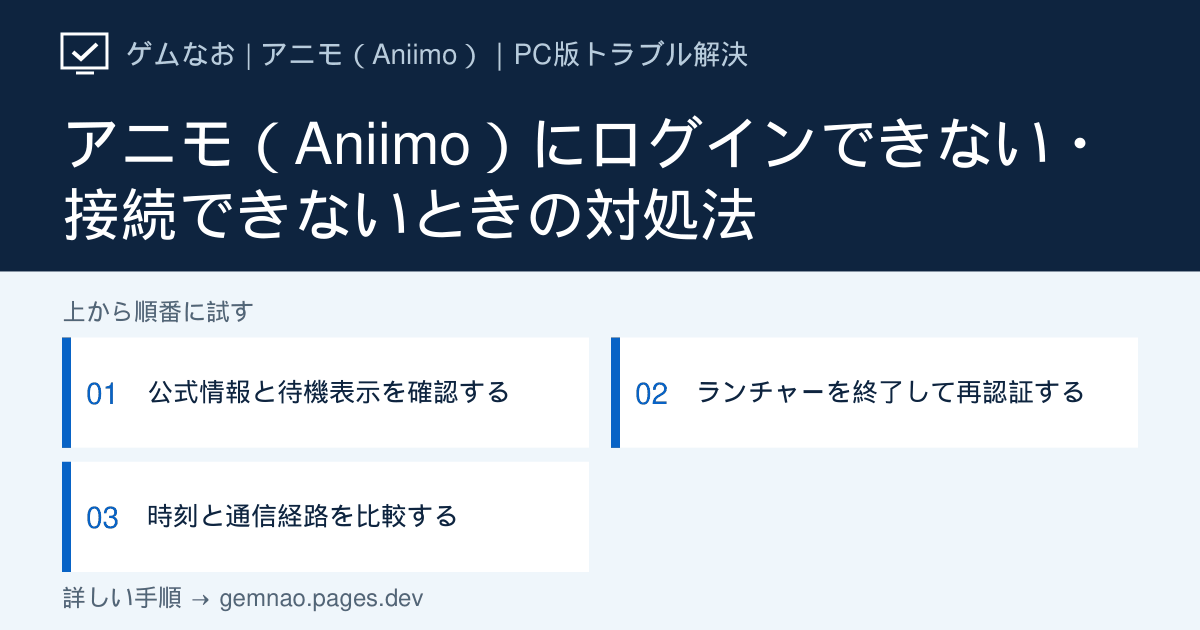
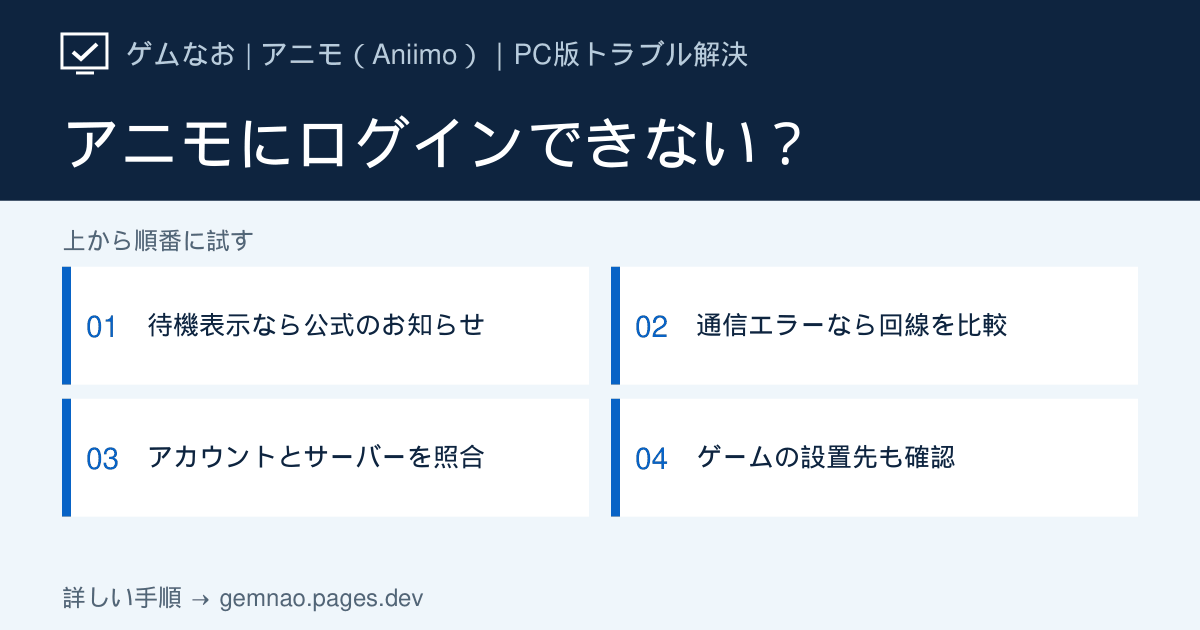
Rewrite Aniimo login troubleshooting by error and platform

diff --git a/lib/aniimo-articles.ts b/lib/aniimo-articles.ts
@@ -18,6 +18,10 @@ const steamVerifyGuide = {
   label: 'Steam公式サポート：ゲームファイルの整合性を確認する方法',
   url: 'https://help.steampowered.com/en/faqs/view/0C48-FCBD-DA71-93EB',
 };
+const steamMoveGuide = {
+  label: 'Steam公式サポート：Steamライブラリ間でゲームを移動する方法',
+  url: 'https://help.steampowered.com/en/faqs/view/71AB-698D-57EB-178C',
+};
 const windowsEventViewer = {
   label: 'Microsoft公式：イベント ビューアーで日時・イベントを確認する',
   url: 'https://support.microsoft.com/ja-jp/windows/experience/system-configuration-tools-in-windows',
@@ -464,85 +468,199 @@ export const aniimoArticles: GameArticle[] = [
     gameSlug: 'aniimo',
     slug: 'login-error',
     category: 'server',
-    title: 'アニモ（Aniimo）にログインできない・接続できないときの対処法',
+    title:
+      'アニモ（Aniimo）にログインできない・接続エラーが出るときの対処法【PC版】',
     shortTitle: 'ログイン・接続エラー',
     symptom:
-      'アカウントへ入れない、接続できない、ログイン待ちから進まない場合の切り分け手順です。',
+      'ログイン待ちが続く、ランチャーに「ネットワークエラー」が出る、アカウントで入れない。止まった画面と表示文を確認し、下の表から自分の症状を選んでください。',
     conclusion:
-      '公式のお知らせでメンテナンスを確認し、再認証、Windowsの時刻、別回線の比較まで行って、サーバー側とPC側を切り分けます。',
+      '待機人数・時間が出るなら公式のお知らせと待機画面を確認します。ランチャーのネットワークエラーなら通信経路、アカウントの問題ならSteam版・公式ランチャー版のログイン方法とサーバーを確認。ログイン失敗が続く場合は、公式FAQが挙げるインストール先の文字種も調べます。',
     description:
-      'サービス開始直後の混雑・メンテナンスと、認証情報や通信環境の問題は対処が異なります。待機表示がある場合は、連打や短時間の再接続を避けてください。',
-    checkedAt,
+      '同じ「ログインできない」でも、待機列・回線・アカウント・ゲームの設置場所では確認する画面が異なります。表示されたエラー文を先に控え、当てはまる手順だけ進めてください。',
+    checkedAt: '2026-09-27',
     status: 'verified',
-    targetVersion,
+    targetVersion: 'Windows PC版（公式ランチャー・Steam）／2026年9月27日確認',
+    quickFacts: [
+      {
+        label: '待機人数・時間が出る',
+        value: '待機画面と公式のお知らせを確認。ログインの連打を控える',
+      },
+      {
+        label: 'ネットワークエラー／タイムアウト',
+        value: '公式FAQの案内に沿って接続・DNS・プロキシを確認し、別回線と比較',
+      },
+      {
+        label: '入れたのにキャラがいない',
+        value:
+          '使ったアカウントと選択中のサーバーを照合。過去のテストデータは別扱い',
+      },
+      {
+        label: 'インストール先に日本語',
+        value:
+          '公式FAQは半角英数字のみのフォルダを推奨。Windowsのユーザー名は変更しない',
+      },
+    ],
     causes: [
-      'メンテナンス、障害、ログイン集中',
-      'ランチャーまたはSteamの認証情報が更新されていない',
-      'Windowsの時刻ずれやVPN・プロキシの影響',
-      '家庭内ネットワークまたはプロバイダー経路の一時的な問題',
+      '待機列・メンテナンスなど運営側の状況',
+      'ランチャーの通信、DNS・プロキシ、または利用中の回線',
+      'Steamと公式ランチャーで使ったログイン方法・連携状態、選択したサーバーの違い',
+      '公式FAQが注意を促す、半角英数字以外を含むインストール先',
     ],
     symptoms: [
       { label: 'ログイン待ちから進まない', target: 'check-login-status' },
-      { label: 'アカウントへ入れない', target: 'reauthenticate' },
-      { label: '接続できない', target: 'compare-network' },
+      { label: 'ネットワークエラー・タイムアウト', target: 'compare-network' },
+      { label: 'アカウントへ入れない', target: 'check-account' },
+      { label: '入れたがキャラがいない', target: 'check-account' },
+      {
+        label: '日本語のフォルダにインストールした',
+        target: 'check-install-path',
+      },
+    ],
+    diagnosis: [
+      {
+        symptom: '待機人数・待機時間が画面に出ている',
+        cause: 'ログイン待ち。先に運営のお知らせと画面の案内を確認',
+        stepId: 'check-login-status',
+      },
+      {
+        symptom:
+          '公式ランチャーに「ネットワークエラー」「ネットワークタイムアウト」と出る',
+        cause: '公式FAQが案内するインターネット接続・DNS・プロキシを確認',
+        stepId: 'compare-network',
+      },
+      {
+        symptom: 'Steam版のログイン・アカウント連携画面で止まる',
+        cause: 'Steamから起動したかとAniimo Passの連携状態を確認',
+        stepId: 'check-account',
+      },
+      {
+        symptom: '公式ランチャー版でアカウントへ入れない／認証で止まる',
+        cause:
+          'ログイン方法とエラー文を確認。通信エラーが出る場合は先に回線を比較',
+        stepId: 'check-account',
+      },
+      {
+        symptom: 'ログインはできたが、以前のキャラクターが見当たらない',
+        cause: '同じアカウント・同じサーバーか確認。以前のテストデータも区別',
+        stepId: 'check-account',
+      },
+      {
+        symptom: '通信は正常だがログインできず、設置場所に日本語などを含む',
+        cause: '公式FAQの文字種の注意に該当するか、実際のゲームフォルダを確認',
+        stepId: 'check-install-path',
+      },
     ],
     steps: [
       {
         id: 'check-login-status',
-        title: '公式情報と待機表示を確認する',
-        summary: '運営側の状況なら、端末設定の変更は不要です。',
+        title: '待機表示か、具体的なエラー表示かを見分ける',
+        summary:
+          '待機列が見えるなら画面の案内を優先。エラーが出るなら表示文を控えます。',
         actions: [
-          'Aniimo公式ニュースでメンテナンスや障害情報を確認する',
-          '待機人数や待機時間が表示されている場合は、その画面の案内に従う',
-          '短時間にログイン操作を繰り返さない',
+          'ログイン画面の「待機人数・時間」「ネットワークエラー」「アカウント関連の案内」のどれが出ているか、表示文と時刻を控える。',
+          'Aniimo公式ニュースで、現在のメンテナンス・障害・混雑の案内を確認する。公式ランチャー版かSteam版かも控える。',
+          '待機人数・時間が出る場合は画面の指示に従い、順番の表示が変わるか確認する。待機表示がなく具体的なエラーが出る場合は下の該当手順へ進む。',
         ],
-      },
-      {
-        id: 'reauthenticate',
-        title: 'ランチャーを終了して再認証する',
-        summary: '古い認証状態が残っていないかを確認します。',
-        actions: [
-          'ゲームとランチャーまたはSteamを終了する',
-          'タスクマネージャーで関連プロセスが終了したことを確認する',
-          'Windowsを再起動する',
-          '通常の公式ログイン画面から再度サインインする',
-        ],
-        note: 'パスワードや確認コードを第三者サイトへ入力しないでください。',
+        note: '公式はサービス開始時にログイン待ちが発生し得ると案内しています。いま障害が起きているという意味ではありません。',
       },
       {
         id: 'compare-network',
-        title: '時刻と通信経路を比較する',
+        title: '「ネットワークエラー／タイムアウト」なら回線を比較する',
         summary:
-          '認証に影響する端末時刻と回線を、変更の少ない方法で確認します。',
+          '公式FAQのDNS・プロキシ確認に沿い、接続先を一つずつ比較します。',
         actions: [
-          'Windowsの「時刻を自動的に設定する」を有効にして同期する',
-          'VPNやプロキシを使っている場合は一時的に停止して比較する',
-          'ルーターを再起動する',
-          '可能ならスマートフォンのテザリングで一度だけ比較する',
+          'ブラウザーでほかのサイトを開き、PC自体がインターネットに接続できるか確認する。VPN・プロキシや独自DNSを使っているなら設定を記録し、元に戻せる範囲で一つずつ切り替えて比較する。',
+          '公式ランチャーに「ネットワークエラー」や「ネットワークタイムアウト」が出る場合は、エラーコードを控える。公式FAQはDNS・プロキシの確認と、必要に応じたONUの再起動を案内している。',
+          '可能なら別回線（スマートフォンのテザリングなど）で一度だけ同じログインを試す。別回線で通るなら元の回線・ルーター側を確認し、どちらも失敗するなら公式情報とエラー文を添えてサポートに相談する。',
         ],
+        note: '通信方法を変えた後は元の設定に戻せるよう、変更前の値を記録してください。待機画面が出ているだけなら、この操作は飛ばせます。',
+      },
+      {
+        id: 'check-account',
+        title: 'Steam版と公式ランチャー版で、使ったアカウントを確かめる',
+        summary:
+          '認証画面で止まる場合と、ログイン後にキャラが見えない場合を分けます。',
+        actions: [
+          'Steam版はSteamのライブラリからAniimoを起動し、Steamでのサインイン状態と、表示されたAniimo Pass連携案内を確認する。公式ランチャー版はランチャーで選んだログイン方法と入力したアカウントを確認する。',
+          'Steamで過去に使ったメールアドレスのAniimo Passを利用したい場合は、公式FAQの連携案内を確認する。初回の連携確認を飛ばした場合、ゲーム内に入れるなら「メールアドレス連携」の案内を確認する。入れないならサポートに相談する。',
+          'ログインはできてもキャラがいない場合、以前使ったアカウントとゲーム内で選択中のサーバー名を照合する。公式FAQでは進行状況は同じサーバー内で共有される。以前のテスト版のデータは正式サービスへ引き継がれない。',
+          '認証画面で止まる場合は、文言と発生時刻を控える。パスワード再入力を繰り返したり、既存アカウントを解除・新規作成したりせず、公式のログイン案内またはサポートを確認する。',
+        ],
+        note: 'アカウントや連携を変更する前に、使っているSteamアカウント、Aniimo Pass、サーバー名を控えると取り違えを防げます。',
+      },
+      {
+        id: 'check-install-path',
+        title: 'ログインできない場合は、ゲームの設置先に日本語がないか確認する',
+        summary:
+          '公式FAQは半角英数字以外を含むインストール先がログインに影響する可能性を案内しています。',
+        actions: [
+          '公式ランチャー版はランチャー右上「設定」で指定中のゲームフォルダを確認する。Steam版はライブラリでAniimoの「プロパティ」→「インストール済みファイル」→「参照」から実際のフォルダを開く。',
+          'アドレスバーでドライブからゲームフォルダまでの全階層を見る。例の「D:\\Games\\Aniimo」は半角英数字のみ。「D:\\ゲーム\\Aniimo」のように途中のフォルダに日本語があれば公式FAQの注意に該当する。',
+          '公式ランチャー版で該当する場合は、公式FAQの案内に従ってゲームを半角英数字のみのフォルダへ移し、ランチャー右上「設定」→「別のフォルダ」で実際のゲームフォルダを指定する。Steam版は半角英数字のパスに新しいSteamライブラリを作り、Aniimoの「プロパティ」→「インストール済みファイル」→「インストールフォルダーを移動」でそのライブラリへ移す。移動後のパスとログインを再確認する。',
+          'パスに問題がないか、変更後も同じエラーなら、フォルダ名を推測で変え続けず、表示文・導入元・実際のパスを添えて公式サポートへ相談する。',
+        ],
+        note: '公式FAQが挙げるのはゲームのインストール先です。Windowsのユーザーフォルダ名を手作業で変えたり、ゲームフォルダを削除したりしないでください。',
+      },
+      {
+        id: 'contact-support',
+        title: '解決しなければ、比較結果を添えて公式サポートへ送る',
+        summary:
+          '再現できる情報を渡すと、待機・回線・アカウントのどこで止まるか伝わります。',
+        actions: [
+          '公式ランチャー版／Steam版の別、止まる画面、エラー全文・コード、発生時刻、選択したサーバーを整理する。',
+          '別回線での成否、ゲームのインストール先に日本語を含むか、ログイン後だけキャラが見えないかを追記する。',
+          '公式が案内するゲーム内「メニュー」→「カスタマーサポート」（F10）、または日本語窓口 support_jp@aniimo.com から問い合わせる。ゲーム内へ入れなければメールを利用する。',
+        ],
+        note: 'パスワード、認証コード、本人確認書類などの機密情報を通常の問い合わせ文に書かないでください。',
       },
     ],
     cautions: [
-      'アカウント情報や確認コードは公式画面以外に入力しないでください。',
-      '待機列があるときに再接続すると、順番が戻る場合があります。画面の案内を優先してください。',
+      'ログイン待ちの画面では、繰り返し接続し直す前に画面の案内と公式のお知らせを確認してください。',
+      'アカウント連携の解除やWindowsユーザーフォルダの手動変更は、状況を記録する前に行わないでください。',
+    ],
+    avoid: [
+      '待機人数が出ているだけなのにDNSやインストール先を変更する',
+      'Steam版に公式ランチャーの「別のフォルダ」操作を当てはめる',
+      'キャラクターが見えないだけで既存の連携を解除する',
     ],
     faqs: [
       {
-        question: 'Aniimoのログイン待ちはPCの故障ですか？',
+        question:
+          'ログイン待ちと「ネットワークタイムアウト」は同じ問題ですか？',
         answer:
-          '待機人数や待機時間が表示される場合は、サーバー混雑の可能性があります。公式のお知らせを確認し、画面の案内を優先してください。',
+          '異なります。待機人数・時間が表示される場合は待機画面と公式のお知らせを確認します。「ネットワークエラー／タイムアウト」の表示が出る場合は、公式FAQに沿って通信・DNS・プロキシと別回線を比較します。',
       },
       {
-        question: 'Aniimoだけ接続できないときは？',
+        question: 'Steam版でログインできたのに、以前のキャラクターがいません。',
         answer:
-          '公式の障害情報を確認し、再認証、Windowsの時刻同期、VPN停止、別回線での比較を順番に行います。',
+          '使ったAniimo Passと、選んだサーバー名をまず確認してください。公式FAQによると、進行状況は同じサーバー内で共有され、Steam版にはアカウント連携の案内があります。過去のテスト版データは正式版に引き継がれません。',
+      },
+      {
+        question:
+          'フォルダに日本語がある場合、Windowsのユーザー名を変える必要がありますか？',
+        answer:
+          'Windowsのユーザー名を変える必要はありません。公式FAQはゲームのインストール先を半角英数字のみのフォルダにするよう案内しています。ランチャー版なら移動後に「設定」→「別のフォルダ」で実際のゲームフォルダを指定し、Steam版はSteam公式の手順で別のライブラリへ移動します。',
       },
     ],
-    sources: [officialNews, steamStore],
+    sources: [
+      pcLaunchFaq,
+      aniimoRelease,
+      steamMoveGuide,
+      officialNews,
+      steamStore,
+    ],
     related: related.filter((slug) => slug !== 'login-error'),
-    seoTitle: 'アニモ（Aniimo）にログインできない・接続できない時の対処法',
+    seoTitle:
+      'アニモ（Aniimo）にログインできない時の対処法｜待機・通信・アカウント別',
     metaDescription:
-      'アニモ（Aniimo）にログインできない、接続できない、ログイン待ちから進まない場合の対処法。公式状況、再認証、時刻・回線を順に確認します。',
+      'アニモにログインできない時の確認表。ログイン待ち、ネットワークエラー、Steam・公式ランチャーのアカウント、ゲームのインストール先に日本語がある場合を分けて解説。',
+    ogTitle: 'アニモにログインできない？',
+    ogSteps: [
+      '待機表示なら公式のお知らせ',
+      '通信エラーなら回線を比較',
+      'アカウントとサーバーを照合',
+      'ゲームの設置先も確認',
+    ],
   },
   {
     gameSlug: 'aniimo',

diff --git a/lib/og-image-manifest.ts b/lib/og-image-manifest.ts
@@ -37,7 +37,7 @@ export const ogImageManifest: Record<string, string> = {
   "/games/aniimo": "30fe6a2d",
   "/games/aniimo/black-screen": "d4ce40f0",
   "/games/aniimo/launcher-display": "950a3a59",
-  "/games/aniimo/login-error": "c5c34110",
+  "/games/aniimo/login-error": "6262e42b",
   "/games/aniimo/not-launching": "0cedb67a",
   "/games/aniimo/video-memory-error": "eedbb3ce",
   "/games/elden-ring": "7b6f68c6",
